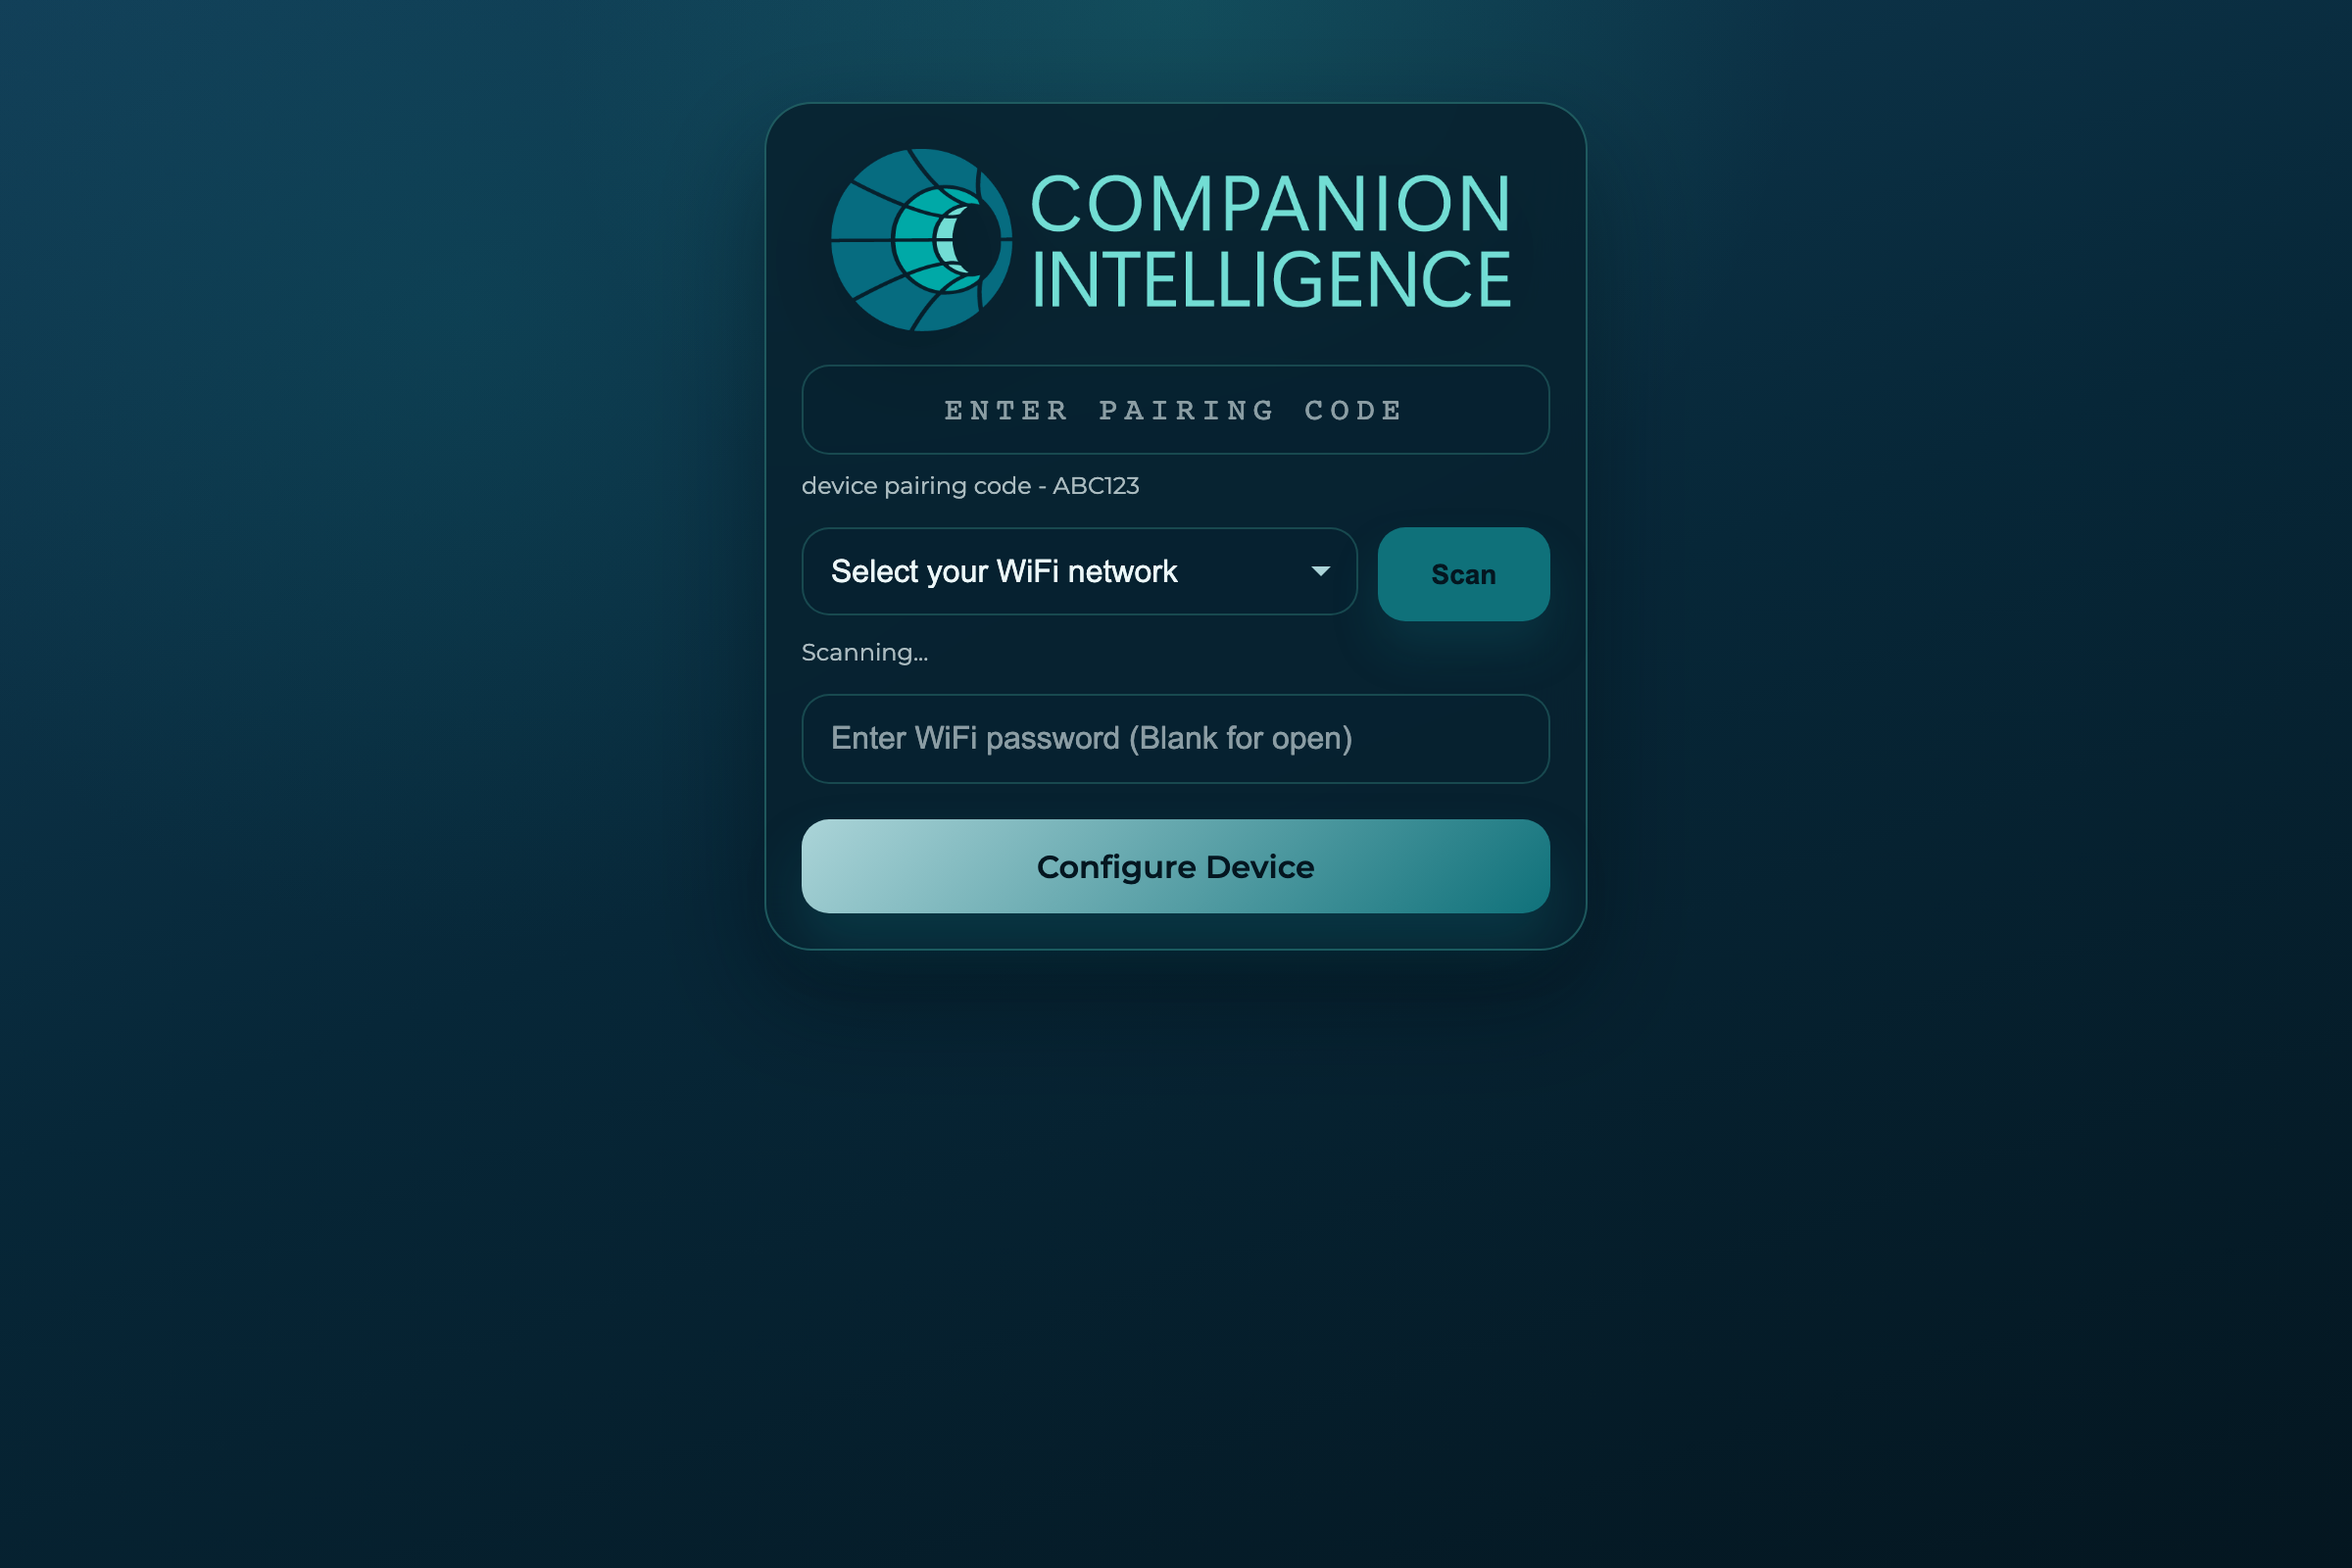
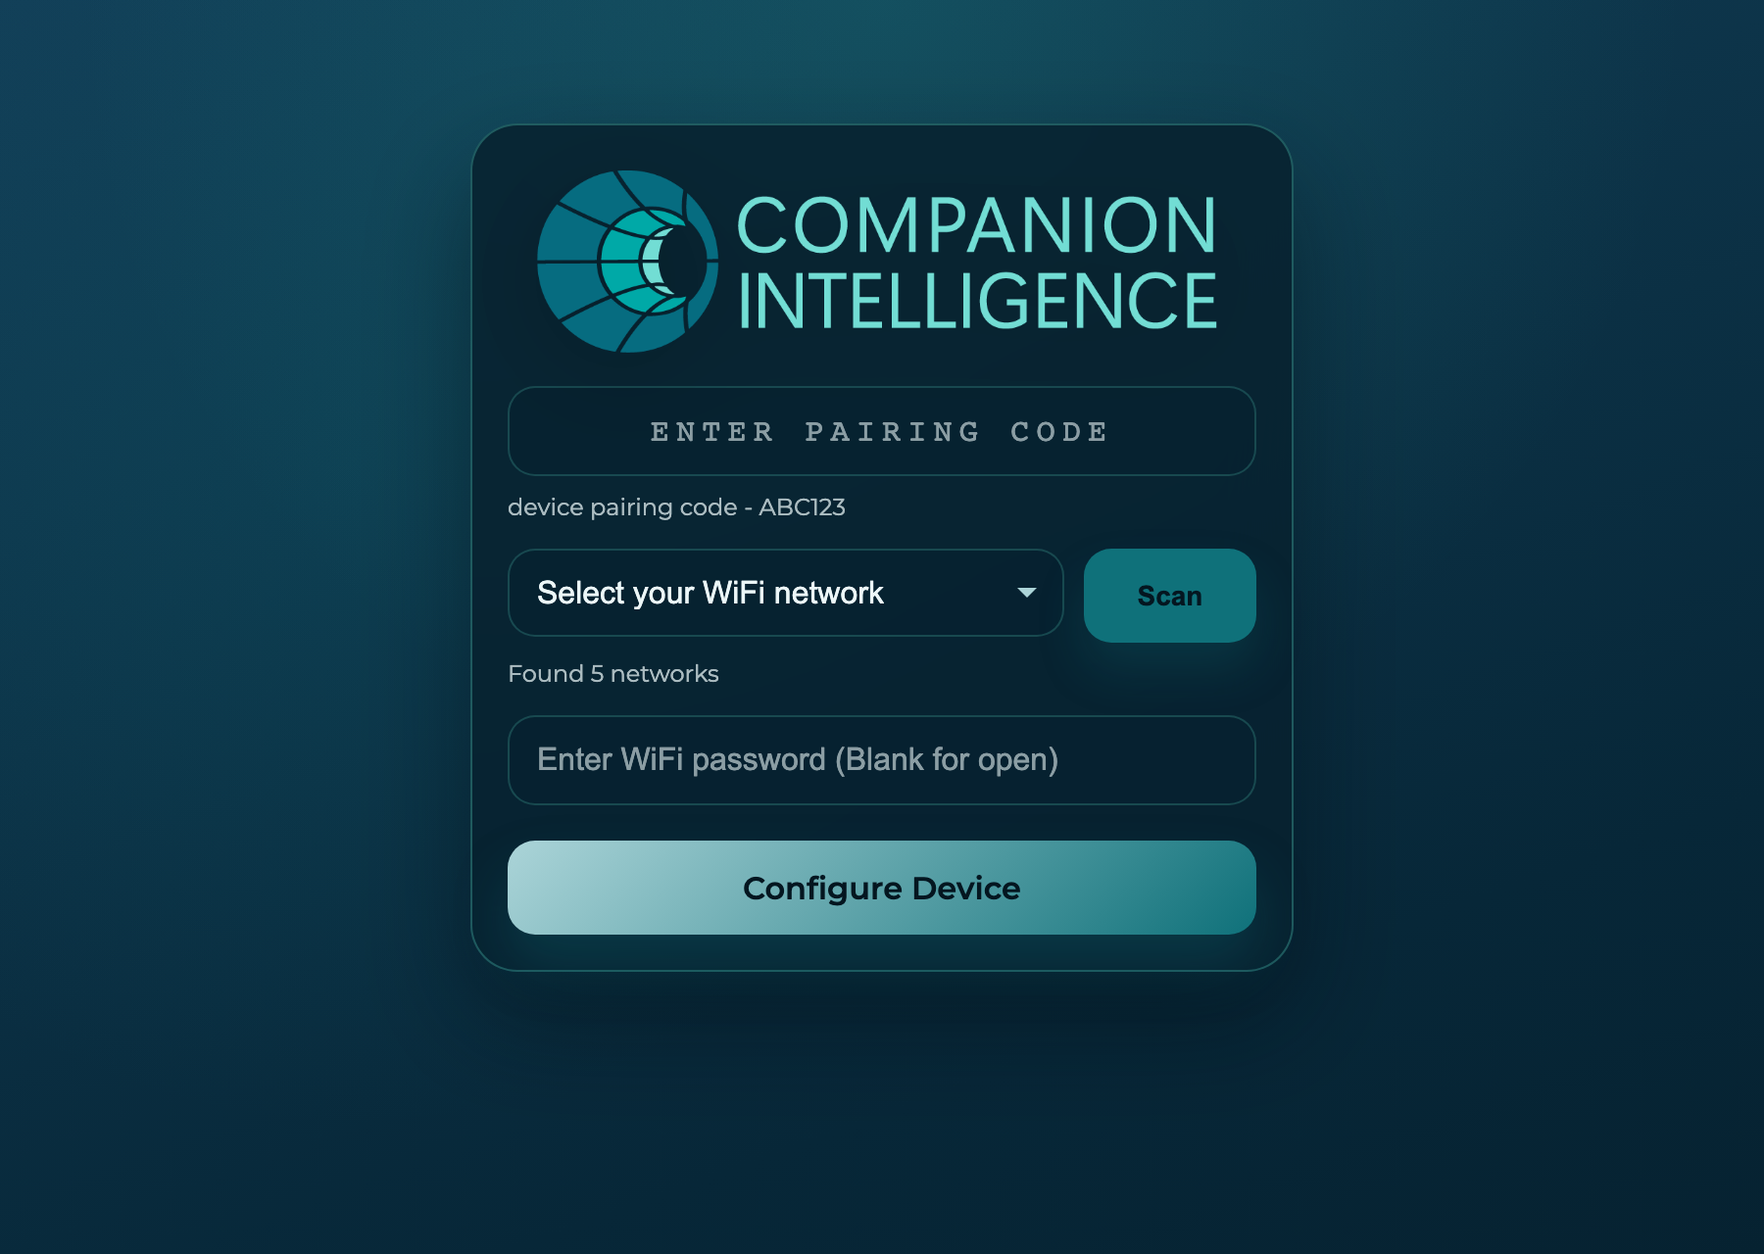
docs: expand UI screenshots — all major screens
Grow the README Interface section into a screen-by-screen gallery of the
headless setup portal: first-boot pairing form, scan results, manual entry,
no-pairing variant, success, and error states. Each state is a genuine render
of the shipped portal HTML/CSS/JS, captured headlessly with Playwright; the
backend-driven states are reproduced via the portal's own render paths (setup
backend responses stubbed only to trigger them). Note the dark-only, single-
theme design and that CI-OS ships no other rendered UI.

Changed region(s): [[0.2489, 0.0625, 0.7156, 0.625], [0.28, 0.6562, 0.7156, 0.75]]

diff --git a/README.md b/README.md
@@ -27,14 +27,86 @@
 
 The only user-facing surface CI-OS ships is the **headless WiFi setup portal** — the
 captive page a new appliance serves over its own access point on first boot, so you can
-hand it your WiFi credentials and pairing code from any phone or laptop. It is a
-single-theme (dark) captive portal by design.
+hand it your WiFi credentials and pairing code from any phone or laptop. It is one page
+whose several states are driven entirely by the on-device setup backend
+(`/opt/setup-backend/setup_service.py`); the gallery below walks through each of them.
+
+It is a **single-theme (dark) captive portal by design** — there is no light mode and no
+theme toggle. It follows the
+[Companion Intelligence design system](https://github.com/companionintelligence/CI-Common/tree/main/style):
+teal `--primary` (`#0f717a`), Montserrat, and the enriched-palette tokens.
+
+> **How these were captured.** The portal HTML/CSS/JS in
+> [`setup/.../var/www/setup-portal/`](setup/headless/setup-device/var/www/setup-portal/)
+> renders offline; each screen was shot headlessly with Playwright. The states below the
+> first one are normally reached in response to the setup backend
+> (`/api/status`, `/api/scan-networks`, `/api/configure`). To capture them without a live
+> appliance, those backend responses were stubbed **only to trigger the portal's own
+> rendering code paths** — the layout, styling, and copy are exactly what the shipped page
+> produces. Sample network names (`Companion-Home`, `Studio-5G`, …) stand in for a real
+> `nmcli` scan. No pixels are hand-drawn or faked.
+
+### First-boot form (pairing required)
+
+The default state on first boot: a pairing-code field, the WiFi-network selector, a
+password field, and **Configure Device**. A background scan runs on load, so the network
+count populates automatically.
 
 <p align="center">
-  <img src="docs/ui/setup-portal-dark.png" alt="CI-OS headless WiFi setup portal (dark)" width="720">
+  <img src="docs/ui/setup-portal-dark.png" alt="CI-OS setup portal — first-boot pairing form (dark)" width="640">
 </p>
 
-On the [Companion Intelligence design system](https://github.com/companionintelligence/CI-Common/tree/main/style) — teal primary, Montserrat, light + dark.
+### Network scan results
+
+Tapping **Scan** (or the automatic scan on load) fills the selector with nearby networks,
+sorted by signal strength, with the signal percentage beside each SSID.
+
+<p align="center">
+  <img src="docs/ui/setup-portal-networks-dark.png" alt="CI-OS setup portal — expanded scanned-network list (dark)" width="640">
+</p>
+
+### Manual network entry
+
+Choosing **Enter network manually…** reveals a free-text field for hidden or
+out-of-range SSIDs.
+
+<p align="center">
+  <img src="docs/ui/setup-portal-manual-dark.png" alt="CI-OS setup portal — manual SSID entry (dark)" width="640">
+</p>
+
+### No-pairing variant
+
+When the backend reports `require_pairing: false` (via `/api/status`), the pairing-code
+field is hidden and the flow drops straight to network selection.
+
+<p align="center">
+  <img src="docs/ui/setup-portal-nopairing-dark.png" alt="CI-OS setup portal — pairing-not-required variant (dark)" width="640">
+</p>
+
+### Success
+
+After the backend accepts the configuration, the portal shows a success banner and
+counts down to the redirect target (the Portal, `https://portal.ci.computer`) while the
+button shows a **Configuring…** spinner.
+
+<p align="center">
+  <img src="docs/ui/setup-portal-success-dark.png" alt="CI-OS setup portal — configuration success (dark)" width="640">
+</p>
+
+### Error
+
+If configuration fails (bad pairing code, wrong password, backend/network error) the
+portal surfaces an inline error and re-enables the form for another attempt.
+
+<p align="center">
+  <img src="docs/ui/setup-portal-error-dark.png" alt="CI-OS setup portal — configuration error (dark)" width="640">
+</p>
+
+> **Backend-gated / not shown.** CI-OS ships no other rendered UI. Everything else the OS
+> does — the ISO build, the branding scripts, the setup service itself — is CLI/systemd
+> with no graphical surface, so there are no additional screens to capture. The scan-list,
+> success, and error states above require the on-device setup backend at runtime; they are
+> reproduced here from the portal's own render paths, not from a live appliance.
 
 ---
 
